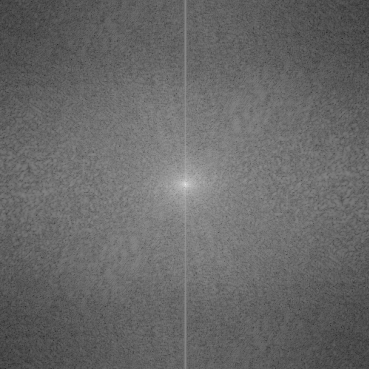
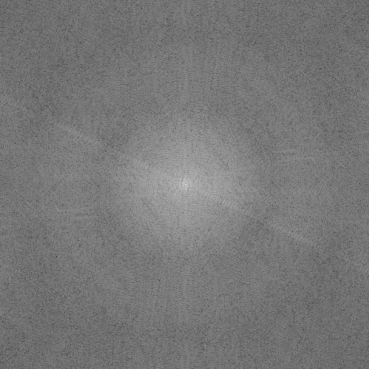
Add all images mixes

diff --git a/DSP_task4_1-front/app.py b/DSP_task4_1-front/app.py
@@ -16,14 +16,14 @@ def home():
 def upload():
     if request.method=="POST":
         image1= request.files["profile_pic"]
-        path_1 ="./static/images/image1.png"
+        path_1 ="DSP_task4_1-front/static/images/image1.png"
         image1.save(path_1)
         image2= request.files["profile_pic2"]
-        path_2 ="./static/images/image2.png"
-        image2.save(path_2 )
+        path_2 ="DSP_task4_1-front/static/images/image2.png"
+        image2.save(path_2)
 
-        photo1=cv2.imread("./static/images/image1.png")
-        photo2=cv2.imread("./static/images/image2.png")
+        photo1=cv2.imread("DSP_task4_1-front/static/images/image1.png")
+        photo2=cv2.imread("DSP_task4_1-front/static/images/image2.png")
 
         img1_gray = cv2.cvtColor(photo1,cv2.COLOR_BGR2GRAY)
         img2_gray = cv2.cvtColor(photo2, cv2.COLOR_BGR2GRAY)
@@ -35,37 +35,35 @@ def upload():
         fig, ax = plt.subplots()
         ax.imshow (np.log(np.abs(img1_fft)), cmap='gray')
         ax.axis("off")
-        fig.savefig("./static/images/image1_mag.png",bbox_inches="tight",pad_inches=0, dpi=100)
+        fig.savefig("DSP_task4_1-front/static/images/image1_mag.png",bbox_inches="tight",pad_inches=0, dpi=100)
 
         fig1, ax1 = plt.subplots()
         ax1.imshow (np.angle(img1_fft), cmap='gray')
         ax1.axis("off")
-        fig1.savefig("./static/images/image1_phase.png",bbox_inches="tight",pad_inches=0, dpi=100)
+        fig1.savefig("DSP_task4_1-front/static/images/image1_phase.png",bbox_inches="tight",pad_inches=0, dpi=100)
 
         fig2, ax2 = plt.subplots()
         ax2.imshow (np.log(np.abs(img2_fft)), cmap='gray')
         ax2.axis("off")
-        fig2.savefig("./static/images/image2_mag.png",bbox_inches="tight",pad_inches=0, dpi=100)
+        fig2.savefig("DSP_task4_1-front/static/images/image2_mag.png",bbox_inches="tight",pad_inches=0, dpi=100)
 
         fig3, ax3= plt.subplots()
         ax3.imshow (np.angle(img2_fft), cmap='gray')
         ax3.axis("off")
-        fig3.savefig("./static/images/image2_phase.png",bbox_inches="tight",pad_inches=0, dpi=100)
-
-        imgCombined = fn.Process_images(img1,img2,[0,0])
-
-        fig4, ax4= plt.subplots()
-        ax4.imshow (imgCombined, cmap='gray')
-        ax4.axis("off")
-        fig4.savefig("./static/images/image_mixed_mag2_mag1.png",bbox_inches="tight",pad_inches=0, dpi=100)
+        fig3.savefig("DSP_task4_1-front/static/images/image2_phase.png",bbox_inches="tight",pad_inches=0, dpi=100)
 
 
-
-
+        imageMixes = [["image_mixed_mag1_p2",[0,1]],["image_mixed_mag2_p1",[1,0]],["image_mixed_mag2_mag1",[0,0]],["image_mixed_p1_p2",[1,1]]]
+        for i in range(len(imageMixes)):
+            imgCombined = fn.Process_images(img1,img2,imageMixes[i][1])
+            fig4, ax4= plt.subplots()
+            ax4.imshow (imgCombined, cmap='gray')
+            ax4.axis("off")
+            fig4.savefig(f"DSP_task4_1-front/static/images/{imageMixes[i][0]}.png",bbox_inches="tight",pad_inches=0, dpi=100)
 
         return redirect(request.url)
 
     return render_template('index.html')
     
 if __name__ == '__main__':
-    app.run(debug=True , port=10000) 
+    app.run(debug=True , port=10000)
